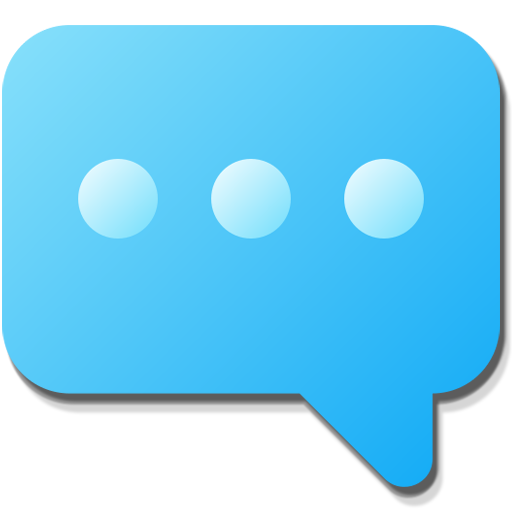
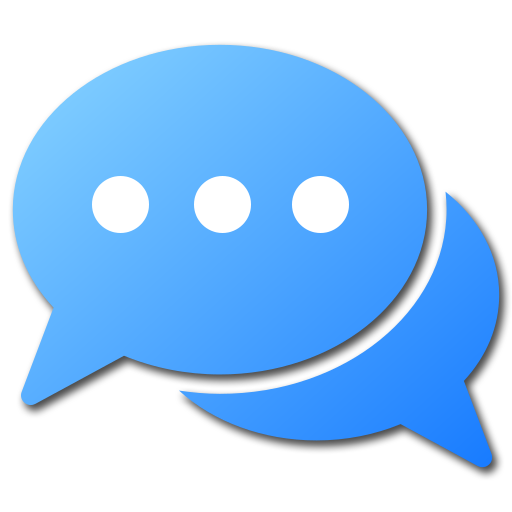
update: 채팅 모달 완성

diff --git a/src/components/main/chat/Chat.tsx b/src/components/main/chat/Chat.tsx
@@ -1,0 +1,53 @@
+import { Flex, Text, Link } from '@chakra-ui/react';
+import defaul_profile from '../../../assets/image/main/profile.png';
+
+export default function Chat() {
+  return (
+    <Link href="/#" _hover={{ textDecoration: 'none' }}>
+      <Flex
+        _hover={{ bgColor: 'rgba(240,240,240,1)' }}
+        align="center"
+        justify="space-between"
+        cursor={'pointer'}
+        paddingX={'12px'}
+        paddingY={'14px'}
+      >
+        <Flex align={'center'}>
+          <img src={defaul_profile} alt="기본 프로필 이미지" className="w-12 h-12" />
+          <div className="ml-2.5">
+            <Text
+              fontSize={16}
+              textColor={'rgba(70,70,70,1)'}
+              fontWeight={'bold'}
+              marginBottom={'2px'}
+            >
+              메시 국대 유니폼
+            </Text>
+            <Text fontSize={12} textColor={'rgba(160,160,160,1)'}>
+              안녕하세요!
+            </Text>
+          </div>
+        </Flex>
+        <Flex direction="column" ml="auto" align="flex-end">
+          <Text
+            fontSize={13}
+            fontWeight={'thin'}
+            textColor={'rgba(160,160,160,1)'}
+            marginBottom={'6px'}
+          >
+            19:49
+          </Text>
+          <Flex
+            className="bg-violet-400 text-white font-thin w-4 h-4"
+            alignItems={'center'}
+            justifyContent={'center'}
+            fontSize={11}
+            borderRadius={'50%'}
+          >
+            1
+          </Flex>
+        </Flex>
+      </Flex>
+    </Link>
+  );
+}

diff --git a/src/components/main/modals/chat/ChatModal.tsx b/src/components/main/modals/chat/ChatModal.tsx
@@ -10,12 +10,13 @@ import {
 import ChatButton from './ChatModalButton';
 import ChatModalInput from './ChatModalInput';
 import { useState } from 'react';
+import ChatList from '../../chat/ChatList';
 
 export default function ChatModal() {
   const [isPopoverOpen, setIsPopoverOpen] = useState(false);
 
   return (
-    <div className="fixed bottom-8 right-6 z-[100]">
+    <div className="fixed bottom-12 right-7 z-[100]">
       <Popover placement="top-start" closeOnBlur={false}>
         <span
           onClick={() => {
@@ -30,15 +31,13 @@ export default function ChatModal() {
             </Button>
           </PopoverTrigger>
         </span>
-        <PopoverContent boxShadow={'2px 2px 6px rgba(1,1,1,0.1)'}>
+        <PopoverContent boxShadow={'2px 2px 6px rgba(1,1,1,0.1)'} width={'360px'}>
           <PopoverHeader marginRight={'20px'} width={'full'}>
             <ChatModalInput />
           </PopoverHeader>
           <PopoverArrow />
-
-          <PopoverBody>
-            Lorem ipsum dolor sit amet, consectetur adipisicing elit, sed do eiusmod tempor
-            incididunt ut labore et dolore.
+          <PopoverBody padding={'0px'}>
+            <ChatList />
           </PopoverBody>
         </PopoverContent>
       </Popover>

diff --git a/src/components/main/modals/chat/ChatModalButton.tsx b/src/components/main/modals/chat/ChatModalButton.tsx
@@ -1,11 +1,10 @@
-import { useState } from 'react';
 import chat from '../../../../assets/image/main/chat.png';
-import hot from '../../../../assets/image/main/hot.png';
+import hot from '../../../../assets/image/main/close.png';
 
 export default function ChatButton({ isPopoverOpen }) {
   return (
     <div className="cursor-pointer">
-      <img src={!isPopoverOpen ? chat : hot} alt="채팅 아이콘" className="w-[53px] h-[53px]" />
+      <img src={!isPopoverOpen ? chat : hot} alt="채팅 아이콘" className="w-[58px] h-[58px]" />
     </div>
   );
 }

diff --git a/src/components/main/chat/ChatList.tsx b/src/components/main/chat/ChatList.tsx
@@ -1,0 +1,14 @@
+import { Flex } from '@chakra-ui/react';
+import Chat from './Chat';
+
+export default function ChatList() {
+  return (
+    <Flex direction={'column'}>
+      <Chat />
+      <Chat />
+      <Chat />
+      <Chat />
+      <Chat />
+    </Flex>
+  );
+}
